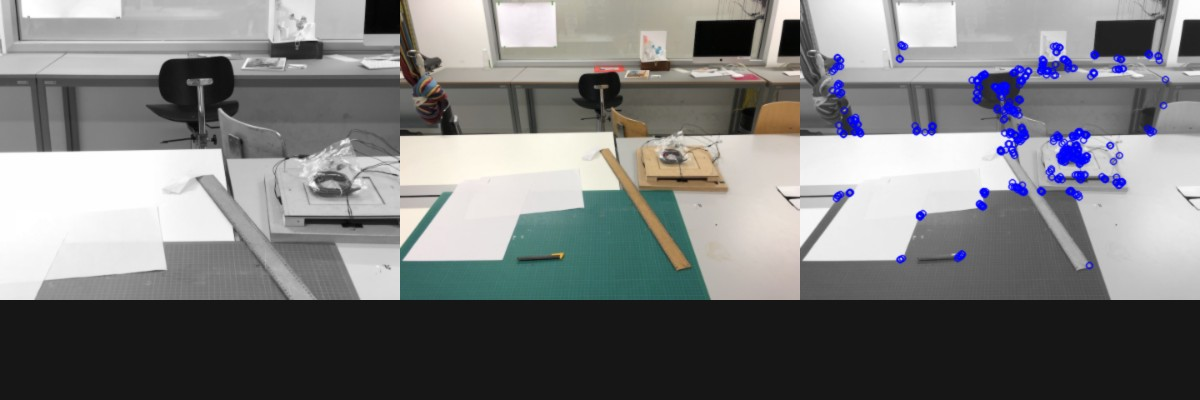
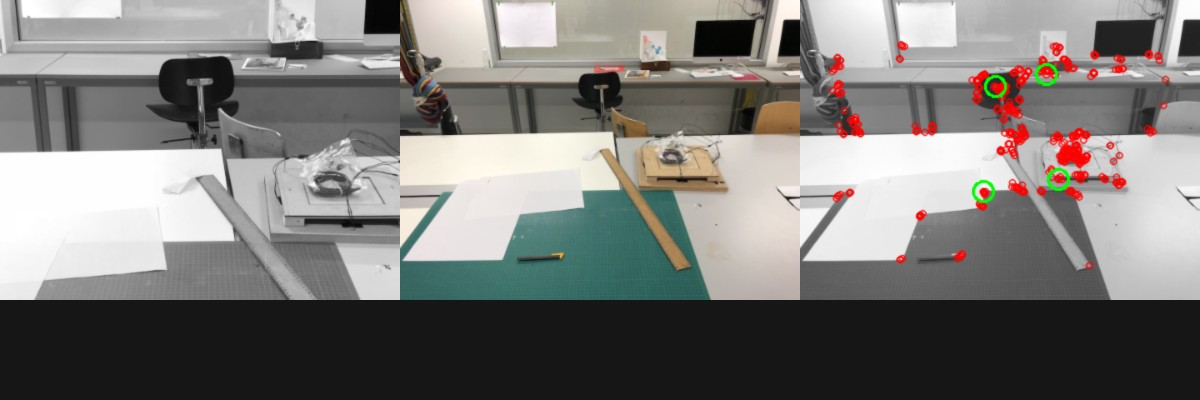
implemented point sorting and selection

diff --git a/src/main/kotlin/ch/bildspur/ivat/vision/SimplePerspectiveTransformer.kt b/src/main/kotlin/ch/bildspur/ivat/vision/SimplePerspectiveTransformer.kt
@@ -3,22 +3,23 @@ package ch.bildspur.ivat.vision
 import ch.bildspur.ivat.vision.feature.BinaryFeatureMatcher
 import ch.bildspur.ivat.vision.feature.FeatureDetector
 import ch.bildspur.ivat.vision.feature.FeatureDetectorResult
-import org.opencv.core.Core
-import org.opencv.core.DMatch
-import org.opencv.core.Mat
-import org.opencv.core.Scalar
+import ch.bildspur.ivat.vision.feature.KeyPointRectangle
+import org.opencv.core.*
 import org.opencv.features2d.Features2d
 import org.opencv.features2d.ORB
 import org.opencv.features2d.ORB.HARRIS_SCORE
 import org.opencv.imgproc.Imgproc
 import processing.core.PApplet
+import org.opencv.core.Scalar
+
+
 
 class SimplePerspectiveTransformer(private val nTopFeatures: Int = 20) : PerspectiveTransformer {
 
-    lateinit var detector : FeatureDetector
-    lateinit var matcher : BinaryFeatureMatcher
+    lateinit var detector: FeatureDetector
+    lateinit var matcher: BinaryFeatureMatcher
 
-    override fun setup(parent : PApplet) {
+    override fun setup(parent: PApplet) {
         System.loadLibrary(Core.NATIVE_LIBRARY_NAME)
 
         // setup detector and matcher
@@ -36,7 +37,7 @@ class SimplePerspectiveTransformer(private val nTopFeatures: Int = 20) : Perspec
         val trainFeatures = detector.detect(train)
 
         val result = train.copy()
-        Features2d.drawKeypoints(train.to8UC3(), trainFeatures.keypoints, result, Scalar(255.0, 0.0, 0.0), 0)
+        Features2d.drawKeypoints(train.to8UC3(), trainFeatures.keypoints, result, Scalar(0.0, 0.0, 255.0), 0)
 
         println("Reference features: ${queryFeatures.keypoints.rows()}")
         println("Original features: ${trainFeatures.keypoints.rows()}")
@@ -46,15 +47,24 @@ class SimplePerspectiveTransformer(private val nTopFeatures: Int = 20) : Perspec
         matches.sortBy { it.distance }
 
         // select 4 best matching features points for perspective transformation
-        matches.take(nTopFeatures)
+        val queryKeyPoints = queryFeatures.keypoints.toList()
+        val trainKeyPoints = trainFeatures.keypoints.toList()
+
+        val rectangle = findTransformationPoints(matches.take(nTopFeatures), queryKeyPoints)
+
+        // show selected keypoints
+        rectangle.matches.forEach{
+            val center = trainKeyPoints[it.trainIdx].pt
+            result.circle(center, 10, Scalar(0.0, 255.0, 0.0), 2)
+        }
 
         return result
     }
 
-    /*
-    private fun findTransformationPoints(matches : List<DMatch>, queryFeatures : FeatureDetectorResult, trainFeatures : FeatureDetectorResult) :
-    {
 
+    private fun findTransformationPoints(matches: List<DMatch>, queryFeatures: List<KeyPoint>): KeyPointRectangle {
+        val rectangle = KeyPointRectangle(queryFeatures[matches.first().queryIdx], matches.first())
+        matches.forEach { rectangle.addPoint(queryFeatures[it.queryIdx], it) }
+        return rectangle
     }
-    */
 }

diff --git a/src/main/kotlin/ch/bildspur/ivat/vision/feature/KeyPointRectangle.kt b/src/main/kotlin/ch/bildspur/ivat/vision/feature/KeyPointRectangle.kt
@@ -1,0 +1,45 @@
+package ch.bildspur.ivat.vision.feature
+
+import org.opencv.core.DMatch
+import org.opencv.core.KeyPoint
+
+data class KeyPointRectangle(private val initialKeyPoint: KeyPoint, private val initialMatch: DMatch) {
+    private var topLeft: KeyPoint = initialKeyPoint // -x -y
+    private var topRight: KeyPoint = initialKeyPoint // x -y
+    private var bottomRight: KeyPoint = initialKeyPoint // x y
+    private var bottomLeft: KeyPoint = initialKeyPoint // -x y
+
+    var topLeftMatch: DMatch = initialMatch
+    var topRightMatch: DMatch = initialMatch
+    var bottomRightMatch: DMatch = initialMatch
+    var bottomLeftMatch: DMatch = initialMatch
+
+    val matches: List<DMatch>
+        get() = listOf(topLeftMatch, topRightMatch, bottomRightMatch, bottomLeftMatch)
+
+    fun addPoint(keyPoint: KeyPoint, match: DMatch) {
+        // topleft
+        if (keyPoint.pt.x < topLeft.pt.x && keyPoint.pt.y < topLeft.pt.y) {
+            topLeft = keyPoint
+            topLeftMatch = match
+        }
+
+        // topRight
+        if (keyPoint.pt.x > topRight.pt.x && keyPoint.pt.y < topRight.pt.y) {
+            topRight = keyPoint
+            topRightMatch = match
+        }
+
+        // bottomRight
+        if (keyPoint.pt.x > bottomRight.pt.x && keyPoint.pt.y > bottomRight.pt.y) {
+            bottomRight = keyPoint
+            bottomRightMatch = match
+        }
+
+        // bottomLeft
+        if (keyPoint.pt.x < bottomLeft.pt.x && keyPoint.pt.y > bottomLeft.pt.y) {
+            bottomLeft = keyPoint
+            bottomLeftMatch = match
+        }
+    }
+}

diff --git a/src/main/kotlin/ch/bildspur/ivat/vision/OpenCVExtensions.kt b/src/main/kotlin/ch/bildspur/ivat/vision/OpenCVExtensions.kt
@@ -234,3 +234,8 @@ fun MatOfPoint.convexHull(clockwise: Boolean = false): MatOfInt {
     Imgproc.convexHull(this, result, clockwise)
     return result
 }
+
+fun Mat.circle(center : Point, radius : Int, color : Scalar, thickness : Int)
+{
+    Imgproc.circle(this, center, radius, color, thickness)
+}
